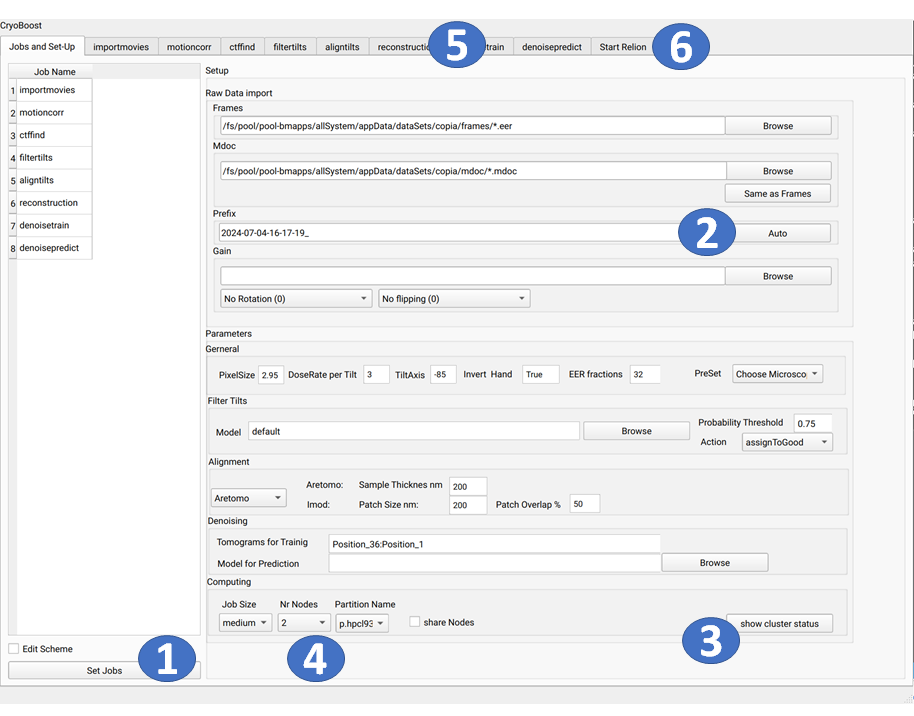
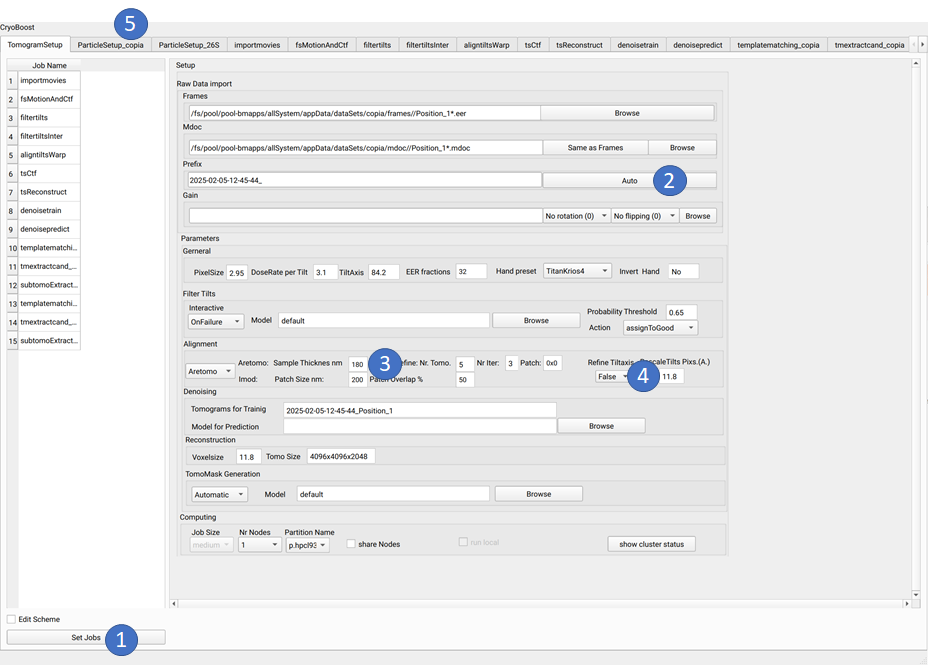
0.95 tutorial

diff --git a/docs/extdocs/tutorial/tutorial.rst b/docs/extdocs/tutorial/tutorial.rst
@@ -10,12 +10,13 @@ Open CryoBoost
    module load CRYOBOOST
    # or
    source /path/to/my/Folder/CryoBoost/.cbenv
-   crboost_pipe.py -mov '/fs/pool/pool-bmapps/allSystem/appData/dataSets/copia/frames/*.eer' -m '/fs/pool/pool-bmapps/allSystem/appData/dataSets/copia/mdoc/*.mdoc' --proj testProj/copia --pixS 2.95
+   crboost_pipe.py -mov '/fs/pool/pool-bmapps/allSystem/appData/dataSets/copia/frames//Position_1*.eer' -m '/fs/pool/pool-bmapps/allSystem/appData/dataSets/copia/mdoc//Position_1*.mdoc' --proj testProj/copia26S --scheme "warp_tomo_prep" --species "copia,26S"
+   
    #or without arguments
    crboost_pipe.py 
 
-Adapt Parameters
-=================
+Adapt Tomogram Parameters
+======================
 
 .. image:: img/setup.png
 
@@ -23,13 +24,68 @@ Adapt Parameters
 
 #. Click on Auto to create a prefix.
 
-#. Click on show cluster status to check which queue is free.
+#. Set sample thickness to 180nm
 
-#. Choose queue and number of nodes.
+#. Switch off tiltaxis refinement (only 1 tomo)
 
-#. Check the parameters of the jobs.
+#. Move to ParticleSetup_copia tap.
 
-#. Move to the Start Relion tab.
+Adapt Copia Particle Parameters
+======================
+
+.. image:: img/particleSetupCopia.png
+
+#. Click on Generate(Volume) to create a template
+
+#. Click on Use Basic shape to create a sphere as template
+
+#. Enter 3x the diamter (of copia) 550:550:550 and OK
+
+#. Click exit
+
+#. Click Generate(Mask) to create a Mask
+
+#. Enter 5 for Extend and SoftEdge (Relion Mask parameters) and OK
+
+#. Enter 550 as diamter for peak extraction (avoid mult. extraction)
+
+#. Enter 224 cropped (used) box size in pixels
+
+#. Enter 384 uncropped box size in pixels
+
+#. Move to ParticleSetup_26S tap.
+
+Adapt 26S Particle Parameters
+======================
+
+.. image:: img/particleSetup26S.png
+
+#. Click on Generate(Volume) to create a template
+
+#. Click on Fetch Pdb to download pdb from pdb www.rcsb.org
+
+#. Enter 5GJR and click OK
+
+#. Click Sim from Pdb to simulate em density from pdb with cistem's simulate
+
+#. Click Gen And Exit to start the simulation
+
+#. Click Exit
+
+#. Click Generate(Mask) to create a Mask
+
+#. Enter 5 for Extend  (Relion Mask parameters) 
+
+#. Enter 6 for SoftEdge (Relion Mask parameters) and OK
+
+#. Enter 250 as diamter for peak extraction (half 26S diameter rod shape)
+
+#. Enter 176 cropped (used) box size in pixels
+
+#. Enter 224 uncropped box size in pixels
+
+#. Move to Start Relion tap.
+
 
 
 Start WorkFlow
